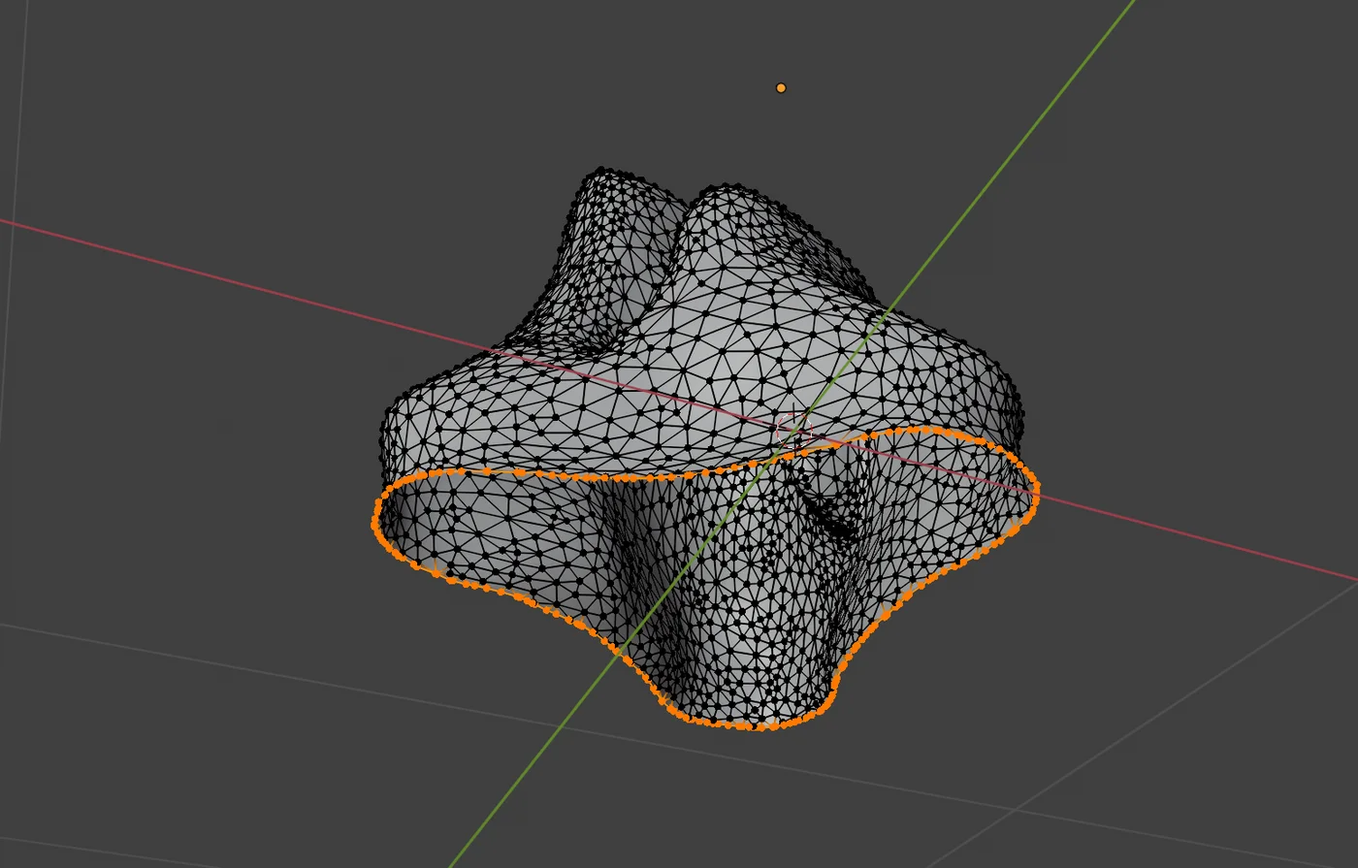
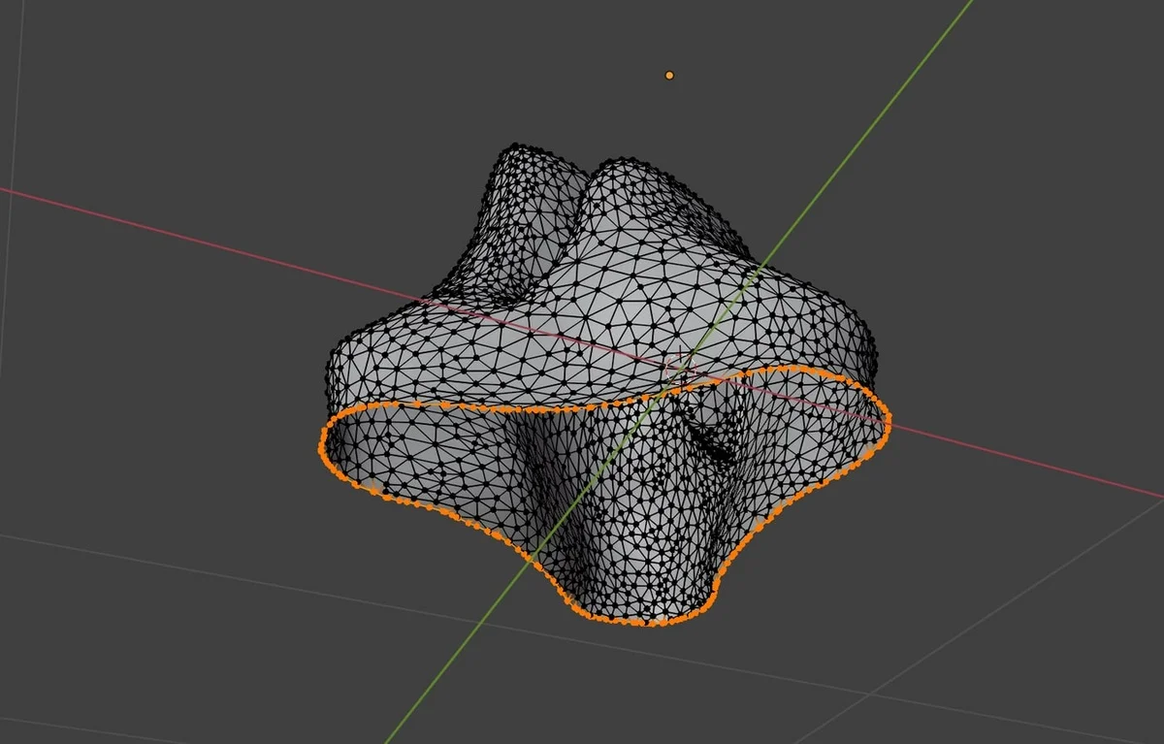
Process is four identical frames, and the third one is the finished piece
All on Jack's word, and it undoes a photo reshuffle he had not asked for.

ONE FRAME FOR ALL FOUR, AND IT IS THE BLENDER CAPTURE'S. "I want them all
to end up being the same ratio as the Blender photo of the product, of me
modeling it... I want them all to be that same ratio and size." So every
step is now ONE photograph at 1200x767, ratio 1.5645, and the 2x2 holds
four identical frames: measured 448 x 288.5 apiece at 1440 in all four
languages, and 351 x 226.5 at 390 where it is one column. Card heights now
vary only by how many lines the sentence takes, 353.6 to 402.2.

1200 IS THE FOAM'S CEILING, which is what picked the number. cs-foam.jpg
is 1200x1500 and its camera original is not on this machine - the old
wall's 05-foam-full is the SPRAY BOOTH, not the foam, so that name lies -
which makes 1200 the widest a landscape crop of it can be without
upscaling. The Blender capture came DOWN from 1400x895 to match: a 14%
downscale of a screenshot costs nothing, where upscaling the one
photograph that cannot be re-exported would have softened it. Pick the
common size from the weakest source, not the best one.

WHAT EACH FRAME IS. The profiles are the rotated source almost whole -
2000x1333 after the 90 degrees, cropped to 2000x1278, which drops 4% of
the height - where the old 1400x596 was a tight strip cut to make a
two-photograph card add up. The foam is a 1200x767 window of its own
export at top 500, keeping the hand and the offcut on the bench.
[…]

diff --git a/i18n.js b/i18n.js
@@ -116,14 +116,13 @@
       'proj.pot-clip.cs.design.hint': "Drag to rotate",
       'proj.pot-clip.cs.process.t': "Process",
       'proj.pot-clip.cs.process.1': "Sketches and paper profiles",
-      'proj.pot-clip.cs.process.1b': "I sketched forms around “How might we” questions, then cut paper profiles to scale and held them against a real pot.",
+      'proj.pot-clip.cs.process.1b': "I made a number of sketches and turned my strongest into full-scale paper profiles to observe its design.",
       'proj.pot-clip.cs.process.2': "Sculpting",
       'proj.pot-clip.cs.process.2b': "I carved the form by hand from high-density foam.",
       'proj.pot-clip.cs.process.3': "Finishing",
       'proj.pot-clip.cs.process.3b': "Built up with coats and spray-finished to read as metal. I built one clip of the pair, to test form and fit.",
       'proj.pot-clip.cs.process.4': "Digital model",
       'proj.pot-clip.cs.process.4b': "I scanned the finished piece and rebuilt it in Blender. That model powers the interactive 3D viewer on this page.",
-      'proj.pot-clip.cs.alt.render': "A render of the clip in gold on a pale wood surface, lit from above.",
       'proj.pot-clip.cs.testing.t': "Testing",
       'proj.pot-clip.cs.testing.b': "<ul><li><strong>Method.</strong> I tested the model on pots of different sizes to see where the clip holds and where it fails.</li><li><strong>Finding.</strong> The rim decided whether it works. On smaller pots with thin rims, the rest held securely, including through a full product shoot. On larger pots with thicker rims, it slipped.</li><li><strong>Implication.</strong> One fixed clip profile can’t serve every pot. That made rim fit the top priority for the next version.</li></ul>",
       'proj.pot-clip.cs.posters.t': "Posters",
@@ -133,10 +132,9 @@
       'proj.pot-clip.alt.thumb': "The rest in polished silver on a deep red ground, with a spoon, a fork and two spatulas drawn in line around it.",
       'proj.pot-clip.cs.alt.hero': "A poster headed “Il buon design vive nei dettagli”, with the silver clip hooked over a steel bowl rim holding a slim wooden rod, and the Alessi mark below.",
       'proj.pot-clip.cs.alt.store': "The Alessi store in Milan seen from across the street, its arched window full of small metal pieces on open wooden shelves.",
-      'proj.pot-clip.cs.alt.sketches': "A notebook spread headed “Movable pot-rim utensil rest”, with profile sketches, a pot in section and a “how might we” note.",
       'proj.pot-clip.cs.alt.profiles': "Three paper profile studies of the clip, cut out and laid on a green cutting mat with pencil dimensions.",
       'proj.pot-clip.cs.alt.foam': "The sculpted foam model held in one hand, with an offcut on the bench behind.",
-      'proj.pot-clip.cs.alt.finishing': "The clip part-way through finishing, grey with filler coats, held in a gloved hand.",
+      'proj.pot-clip.cs.alt.finished': "The finished clip standing on a spray board in the workshop, its silver surface catching the light.",
       'proj.pot-clip.cs.alt.painted': "The finished model hanging from a wire in the spray booth, its silver surface against a perforated white wall.",
       'proj.pot-clip.cs.alt.blender': "The scanned model open in Blender, shown as a dense triangle mesh with its outline selected.",
       'proj.pot-clip.cs.alt.rim': "The clip on a steel bowl rim holding a thin wooden rod above the bowl, seen from the side.",
@@ -377,14 +375,13 @@
       'proj.pot-clip.cs.design.hint': "Arrastra para girar",
       'proj.pot-clip.cs.process.t': "Proceso",
       'proj.pot-clip.cs.process.1': "Bocetos y perfiles de papel",
-      'proj.pot-clip.cs.process.1b': "Dibujé formas en torno a preguntas “cómo podríamos”, luego recorté perfiles de papel a escala y los sostuve contra una olla real.",
+      'proj.pot-clip.cs.process.1b': "Hice varios bocetos y convertí los más sólidos en perfiles de papel a escala real para observar su diseño.",
       'proj.pot-clip.cs.process.2': "Tallado",
       'proj.pot-clip.cs.process.2b': "Tallé la forma a mano en espuma de alta densidad.",
       'proj.pot-clip.cs.process.3': "Acabado",
       'proj.pot-clip.cs.process.3b': "Recubierto con capas y pintado con spray para leerse como metal. Construí uno de los dos soportes, para probar forma y ajuste.",
       'proj.pot-clip.cs.process.4': "Modelo digital",
       'proj.pot-clip.cs.process.4b': "Escaneé la pieza terminada y la reconstruí en Blender. Ese modelo alimenta el visor 3D interactivo de esta página.",
-      'proj.pot-clip.cs.alt.render': "Un render del soporte en dorado sobre una superficie de madera clara, iluminado desde arriba.",
       'proj.pot-clip.cs.testing.t': "Pruebas",
       'proj.pot-clip.cs.testing.b': "<ul><li><strong>Método.</strong> Probé el modelo en ollas de distintos tamaños para ver dónde sujeta el soporte y dónde falla.</li><li><strong>Hallazgo.</strong> El borde decidía si funcionaba. En ollas pequeñas de borde fino sujetó bien, incluso durante una sesión de producto completa. En ollas grandes de borde grueso se resbalaba.</li><li><strong>Implicación.</strong> Un solo perfil de pinza no puede servir para todas las ollas. Eso convirtió el ajuste al borde en la prioridad de la siguiente versión.</li></ul>",
       'proj.pot-clip.cs.posters.t': "Carteles",
@@ -394,10 +391,9 @@
       'proj.pot-clip.alt.thumb': "El soporte en plata pulida sobre fondo rojo oscuro, con una cuchara, un tenedor y dos espátulas dibujadas a línea alrededor.",
       'proj.pot-clip.cs.alt.hero': "Un cartel encabezado «Il buon design vive nei dettagli», con el soporte plateado enganchado al borde de un bol de acero sosteniendo una fina varilla de madera, y la marca Alessi debajo.",
       'proj.pot-clip.cs.alt.store': "La tienda de Alessi en Milán vista desde la acera de enfrente, con su escaparate en arco lleno de pequeñas piezas de metal en estantes de madera.",
-      'proj.pot-clip.cs.alt.sketches': "Una doble página de cuaderno titulada “Movable pot-rim utensil rest”, con bocetos de perfil, una olla en sección y una nota “cómo podríamos”.",
       'proj.pot-clip.cs.alt.profiles': "Tres estudios de perfil en papel del soporte, recortados sobre una base de corte verde con cotas a lápiz.",
       'proj.pot-clip.cs.alt.foam': "El modelo de espuma tallado sostenido en una mano, con un recorte en la mesa al fondo.",
-      'proj.pot-clip.cs.alt.finishing': "El soporte a medio acabar, gris por las capas de masilla, sostenido con una mano enguantada.",
+      'proj.pot-clip.cs.alt.finished': "El soporte terminado de pie sobre un panel de pintura en el taller, con su superficie plateada captando la luz.",
       'proj.pot-clip.cs.alt.painted': "El modelo terminado colgado de un alambre en la cabina de pintura, su superficie plateada sobre una pared blanca perforada.",
       'proj.pot-clip.cs.alt.blender': "El modelo escaneado abierto en Blender, mostrado como una malla densa de triángulos con el contorno seleccionado.",
       'proj.pot-clip.cs.alt.rim': "El soporte en el borde de un bol de acero sosteniendo una varilla fina de madera sobre el bol, visto de lado.",
@@ -636,14 +632,13 @@
       'proj.pot-clip.cs.design.hint': "ドラッグで回転",
       'proj.pot-clip.cs.process.t': "プロセス",
       'proj.pot-clip.cs.process.1': "スケッチと紙の断面",
-      'proj.pot-clip.cs.process.1b': "「どうすれば」という問いを軸に形をスケッチし、実寸で紙の断面を切り出して実際の鍋に当てた。",
+      'proj.pot-clip.cs.process.1b': "多くのスケッチを描き、最も手応えのあるものを実寸の紙の断面に起こして、そのデザインを確かめた。",
       'proj.pot-clip.cs.process.2': "削り出し",
       'proj.pot-clip.cs.process.2b': "高密度フォームから手作業で形を削り出した。",
       'proj.pot-clip.cs.process.3': "仕上げ",
       'proj.pot-clip.cs.process.3b': "塗りを重ね、金属に見えるようスプレーで仕上げた。形と嵌合を確かめるため、対になるクリップの片方を作った。",
       'proj.pot-clip.cs.process.4': "デジタルモデル",
       'proj.pot-clip.cs.process.4b': "完成した実物をスキャンし、Blenderで作り直した。そのモデルがこのページのインタラクティブな3Dビューアーを動かしている。",
-      'proj.pot-clip.cs.alt.render': "淡い木目の面に置いた金色のクリップのレンダリング。上から光が当たっている。",
       'proj.pot-clip.cs.testing.t': "テスト",
       'proj.pot-clip.cs.testing.b': "<ul><li><strong>方法。</strong> 大きさの異なる鍋で試し、どこで留まり、どこで外れるかを確かめた。</li><li><strong>わかったこと。</strong> 決め手はふちだった。ふちの薄い小さめの鍋では、製品撮影を通してもしっかり保持できた。ふちの厚い大きな鍋では滑った。</li><li><strong>意味すること。</strong> 形の決まったクリップひとつですべての鍋には対応できない。そのため次の版ではふちへの適合が最優先になった。</li></ul>",
       'proj.pot-clip.cs.posters.t': "ポスター",
@@ -653,10 +648,9 @@
       'proj.pot-clip.alt.thumb': "深い赤を背景にした、磨かれた銀色のクリップ。まわりにスプーン、フォーク、ヘラが線画で描かれている。",
       'proj.pot-clip.cs.alt.hero': "「Il buon design vive nei dettagli」と題したポスター。ステンレスボウルのふちに掛けた銀色のクリップが細い木の棒を支え、下にAlessiのマークが入る。",
       'proj.pot-clip.cs.alt.store': "通りの向かいから見たミラノのAlessi店舗。アーチ型の窓の奥、木の棚に小さな金属製品が並ぶ。",
-      'proj.pot-clip.cs.alt.sketches': "「Movable pot-rim utensil rest」と見出しのついたノートの見開き。断面のスケッチ、鍋の断面図、「どうすれば」のメモがある。",
       'proj.pot-clip.cs.alt.profiles': "クリップの断面を紙で切り出した3つの検討。緑のカッティングマットの上に、鉛筆の寸法とともに並ぶ。",
       'proj.pot-clip.cs.alt.foam': "削り出したフォームモデルを片手で持つ。奥の作業台には切り落としが置かれている。",
-      'proj.pot-clip.cs.alt.finishing': "仕上げ途中のクリップ。下地の層でグレーになっており、手袋をした手で持っている。",
+      'proj.pot-clip.cs.alt.finished': "工房の塗装板の上に立つ完成したクリップ。銀色の表面が光を受けている。",
       'proj.pot-clip.cs.alt.painted': "塗装ブースでワイヤーに吊るされた完成モデル。銀色の表面が、穴の開いた白い壁を背にしている。",
       'proj.pot-clip.cs.alt.blender': "Blenderで開いたスキャンモデル。細かい三角形のメッシュとして表示され、輪郭が選択されている。",
       'proj.pot-clip.cs.alt.rim': "ステンレスボウルのふちに掛けたクリップが、細い木の棒をボウルの上に支えている。側面から見たところ。",
@@ -895,14 +889,13 @@
       'proj.pot-clip.cs.design.hint': "Trascina per ruotare",
       'proj.pot-clip.cs.process.t': "Processo",
       'proj.pot-clip.cs.process.1': "Schizzi e profili di carta",
-      'proj.pot-clip.cs.process.1b': "Ho disegnato forme attorno a domande “come potremmo”, poi ho ritagliato profili di carta in scala e li ho appoggiati a una pentola vera.",
+      'proj.pot-clip.cs.process.1b': "Ho fatto diversi schizzi e ho trasformato i più solidi in profili di carta a grandezza reale per osservarne il design.",
       'proj.pot-clip.cs.process.2': "Scultura",
       'proj.pot-clip.cs.process.2b': "Ho scolpito la forma a mano nella schiuma ad alta densità.",
       'proj.pot-clip.cs.process.3': "Finitura",
       'proj.pot-clip.cs.process.3b': "Rifinito con più mani e verniciato a spruzzo per leggersi come metallo. Ho realizzato uno dei due supporti, per provare forma e calzata.",
       'proj.pot-clip.cs.process.4': "Modello digitale",
       'proj.pot-clip.cs.process.4b': "Ho scansionato il pezzo finito e l’ho ricostruito in Blender. Quel modello alimenta il visore 3D interattivo di questa pagina.",
-      'proj.pot-clip.cs.alt.render': "Un render del supporto in oro su una superficie di legno chiaro, illuminato dall’alto.",
       'proj.pot-clip.cs.testing.t': "Test",
       'proj.pot-clip.cs.testing.b': "<ul><li><strong>Metodo.</strong> Ho provato il modello su pentole di misure diverse, per vedere dove il supporto tiene e dove cede.</li><li><strong>Risultato.</strong> A decidere era il bordo. Su pentole più piccole con bordi sottili ha retto bene, anche per un intero shooting di prodotto. Su pentole grandi con bordi spessi scivolava.</li><li><strong>Implicazione.</strong> Un solo profilo di aggancio non può servire ogni pentola. Questo ha reso la calzata sul bordo la priorità della versione successiva.</li></ul>",
       'proj.pot-clip.cs.posters.t': "Manifesti",
@@ -912,10 +905,9 @@
       'proj.pot-clip.alt.thumb': "Il supporto in argento lucido su fondo rosso scuro, con un cucchiaio, una forchetta e due spatole disegnati a linea intorno.",
       'proj.pot-clip.cs.alt.hero': "Un manifesto con la riga «Il buon design vive nei dettagli», il supporto argentato agganciato al bordo di una ciotola d’acciaio che regge un’asta di legno sottile, e il marchio Alessi sotto.",
       'proj.pot-clip.cs.alt.store': "Il negozio Alessi a Milano visto dall’altro lato della strada, con la vetrina ad arco piena di piccoli oggetti di metallo su scaffali di legno.",
-      'proj.pot-clip.cs.alt.sketches': "Una doppia pagina di quaderno intitolata “Movable pot-rim utensil rest”, con schizzi di profilo, una pentola in sezione e una nota “come potremmo”.",
       'proj.pot-clip.cs.alt.profiles': "Tre studi di profilo in carta del supporto, ritagliati su un tappetino da taglio verde con quote a matita.",
       'proj.pot-clip.cs.alt.foam': "Il modello in schiuma scolpito tenuto in una mano, con uno scarto sul banco dietro.",
-      'proj.pot-clip.cs.alt.finishing': "Il supporto a metà finitura, grigio per le mani di stucco, tenuto con una mano guantata.",
+      'proj.pot-clip.cs.alt.finished': "Il supporto finito in piedi su un pannello da verniciatura in laboratorio, con la superficie argentata che prende la luce.",
       'proj.pot-clip.cs.alt.painted': "Il modello finito appeso a un filo nella cabina di verniciatura, la superficie argentata contro una parete bianca forata.",
       'proj.pot-clip.cs.alt.blender': "Il modello scansionato aperto in Blender, mostrato come una mesh fitta di triangoli con il contorno selezionato.",
       'proj.pot-clip.cs.alt.rim': "Il supporto sul bordo di una ciotola d’acciaio che tiene un’asta di legno sottile sopra la ciotola, visto di lato.",

diff --git a/script.js b/script.js
@@ -425,90 +425,77 @@ const projectData = {
            paper-profiles shot that is the outer two profiles - the same
            argument the figure rows already lost. */
         { id: 'process', title: 'proj.pot-clip.cs.process.t',
+          /* ONE FRAME FOR ALL FOUR, AND IT IS THE BLENDER CAPTURE'S.
+             Jack: "I want them to all end up being the same ratio as the
+             [...] Blender photo of the product, of me modeling it [...] I
+             want them all to be that same ratio and size." So every step
+             is ONE photograph at 1200x767, ratio 1.5645, and the 2x2 grid
+             has four identical frames in it.
+               1200 IS THE FOAM'S CEILING, which is what sets the number.
+             cs-foam.jpg is 1200x1500 and its own camera original is not on
+             this machine (the old wall's 05-foam-full is the spray booth,
+             not the foam), so 1200 is the widest a landscape crop of it can
+             be without upscaling. Blender came DOWN from 1400x895 to match:
+             a 14% downscale of a screenshot costs nothing, where upscaling
+             the foam 17% would have softened the one photograph that cannot
+             be re-exported. Every file is now literally the same size.
+               WHAT EACH CROP IS. The profiles are the rotated source almost
+             whole - 2000x1333 after the 90 degrees, cropped to 2000x1278,
+             which drops 4% of the height - where the old 1400x596 was a
+             tight strip of it, cut to make a two-photograph card add up.
+             The foam is a 1200x767 window of its export at top 500, which
+             keeps the hand and the offcut on the bench. cs-finished is
+             newnumber3.jpeg (3024x4032, shot 13 Oct) cropped 1900x1215 at
+             522,1429, centred on the clip so it reads at card size.
+               THE PENCIL DARKENING HAD TO BE REDONE for the new crop, and
+             the documented 195-248 stretch is NOT what the live file was
+             carrying. Measured inside the card mask, the approved export
+             sat at paper 232 with stroke-against-paper contrast p95 26.0;
+             195-248 gives paper 211 and p95 46.4, which is a visibly
+             greyer card. Fitted to the approved numbers instead: a 130-250
+             stretch plus a 1.4 sharpen, which lands paper 232 and p95 26.9.
+             The sharpen is MASKED to the cards - sharpening the cutting
+             mat's dot texture is pure file size, and confining it took the
+             webp from 220K to 152K, under the 162K the old file shipped. */
           steps: [
-            /* TWO PHOTOGRAPHS, CROPPED TO ADD UP TO THE ONE BESIDE THEM.
-               Jack: "crop the heights of the Card 1 photos so that they are
-               the same height as the photo next to it." Card 2 is a single
-               4:5 portrait, 551px of image at a 441px column; this pair owes
-               the same, so after a 12px gap and two 3px borders a side they
-               owe 533 between them. The sketch spread takes 345 and the
-               paper profiles 188, and those two numbers are the aspect
-               ratios below - 1400x1096 is 1.277:1 and 1400x596 is 2.349:1.
-               Re-cropped from the ORIGINALS rather than from the exports,
-               so nothing is resampled twice - and shipped at NEW PATHS,
-               which the first pass got wrong. See the cache note in
-               CLAUDE.md: a re-crop at a live path is not a shrug.
-                 The profiles lost height and nothing else: the three paper
-               pieces occupy the middle 48% of that frame and the rest is
-               cutting mat. The sketch spread was cropped in on every side -
-               "so it looks more zoomed in and we just see the paper" - to
-               just inside the notebook page, which drops the dark desk it
-               was lying on and keeps the title and both questions. */
             { label: 'proj.pot-clip.cs.process.1',
               text: 'proj.pot-clip.cs.process.1b', figures: [
-              { src: '/assets/projects/pot-clip/cs-paper-profiles.jpg?v=5edbb0ac', w: 1400, h: 596,
-                full: '/assets/projects/pot-clip/cs-paper-profiles.jpg?v=5edbb0ac',
+              { src: '/assets/projects/pot-clip/cs-paper-profiles.jpg?v=f86714ee', w: 1200, h: 767,
+                full: '/assets/projects/pot-clip/cs-paper-profiles.jpg?v=f86714ee',
                 altKey: 'proj.pot-clip.cs.alt.profiles' },
-              { src: '/assets/projects/pot-clip/cs-sketch-page.jpg?v=88107ffb', w: 1400, h: 1096,
-                full: '/assets/projects/pot-clip/cs-sketch-page.jpg?v=88107ffb',
-                altKey: 'proj.pot-clip.cs.alt.sketches' },
             ] },
             { label: 'proj.pot-clip.cs.process.2',
               text: 'proj.pot-clip.cs.process.2b', figures: [
-              { src: '/assets/projects/pot-clip/cs-foam.jpg?v=824ac2ae', w: 1200, h: 1500,
-                full: '/assets/projects/pot-clip/cs-foam.jpg?v=824ac2ae',
+              { src: '/assets/projects/pot-clip/cs-foam.jpg?v=763ddd51', w: 1200, h: 767,
+                full: '/assets/projects/pot-clip/cs-foam.jpg?v=763ddd51',
                 altKey: 'proj.pot-clip.cs.alt.foam' },
             ] },
-            /* THE FINISHING PHOTOGRAPH CAME BACK FOR THIS CARD. Jack's
-               rewrite split the old "Foam model, spray-finished" into
-               Sculpting and Finishing, so card 2 keeps the raw foam in the
-               hand and this one needed a picture of the coats going on.
-               Nothing on the page could stand in: cs-painted is the
-               finished piece and The design already shows it beside the
-               turntable, and cs-booth is the SAME FRAME at a wider crop,
-               so either would have put one picture on the page twice.
-                 So cs-finishing is the old masonry wall's 06-finishing -
-               the primed clip in a gloved hand, the only photograph of the
-               finishing itself - re-exported from its -full at 1000x1250,
-               jpeg q82 and webp q85 at 44.2 and 43.5 dB against a q98
-               reference. CENTRE-CROPPED 1333x2000 -> 1333x1666 so it is
-               4:5 like the foam shot beside it: the two physical stages
-               are then the same frame shape, which is what makes them read
-               as one pair, and what it costs is an unrelated architecture
-               model at the top of the frame. ?v=0 is the way into
-               asset-rev.js - stale by definition, so the hook fills it. */
+            /* THE FINISHED PIECE, on Jack's "I want this, the third one,
+               the third step, [to be] what you need to see the finished
+               project on." It is the clip standing on its spray board in
+               the workshop - the same 13 October session as the first
+               coats - so the card's own sentence, built up with coats and
+               spray-finished to read as metal, is what the photograph
+               shows. ?v=0 is the way into asset-rev.js: stale by
+               definition, so the hook fills it. */
             { label: 'proj.pot-clip.cs.process.3',
               text: 'proj.pot-clip.cs.process.3b', figures: [
-              { src: '/assets/projects/pot-clip/cs-finishing.jpg?v=0e96128d', w: 1000, h: 1250,
-                full: '/assets/projects/pot-clip/cs-finishing.jpg?v=0e96128d',
-                altKey: 'proj.pot-clip.cs.alt.finishing' },
+              { src: '/assets/projects/pot-clip/cs-finished.jpg?v=c51d409a', w: 1200, h: 767,
+                full: '/assets/projects/pot-clip/cs-finished.jpg?v=c51d409a',
+                altKey: 'proj.pot-clip.cs.alt.finished' },
             ] },
-            /* BOTH DIGITAL PICTURES SIT ON THIS CARD NOW. It used to be
-               "Renders" with the render alone and the Blender capture on a
-               card above it; Jack's card 4 is the model itself - scanned,
-               rebuilt, and driving the turntable - so the mesh is the
-               subject and the render is what that mesh produces. Two
-               landscapes stacked, the shape card 1 already carries, and it
-               is also what keeps this row level against the portrait
-               beside it.
-                 The render is CROPPED TO THE VIEWPORT. Its source is a
-               screenshot of the <model-viewer> editor and the right third
-               of it is a code snippet, a File Manager and a Download Scene
-               button - tooling, not work, and a thing this codebase
-               pointedly does not use. Centred on the render's own ink box
-               (446-1661 x 570-1318 in the 2948x1578 source), 1800x1200 at
-               source scale, which comes out 293/292 left-right and 226/226
-               top-bottom.
-                 14-object.jpg is still the turntable's poster and keeps
-               alt.14; this is a different render and gets its own alt. */
+            /* THE MESH IS LAST AND THE GOLD RENDER IS OUT, both on Jack's
+               word: "I want the render one where it looks kind of golden
+               [...] to take away, and I want the Blender model picture to
+               be the last one." cs-render.jpg and cs-sketch-page.jpg stay
+               in assets/ unreferenced, the same as cs-booth and
+               cs-hero-clip; their alt keys came out of i18n.js rather than
+               being left to read as dead. */
             { label: 'proj.pot-clip.cs.process.4',
               text: 'proj.pot-clip.cs.process.4b', figures: [
-              { src: '/assets/projects/pot-clip/cs-blender.jpg?v=876a7bde', w: 1400, h: 895,
-                full: '/assets/projects/pot-clip/cs-blender.jpg?v=876a7bde',
+              { src: '/assets/projects/pot-clip/cs-blender.jpg?v=819a2449', w: 1200, h: 767,
+                full: '/assets/projects/pot-clip/cs-blender.jpg?v=819a2449',
                 altKey: 'proj.pot-clip.cs.alt.blender' },
-              { src: '/assets/projects/pot-clip/cs-render.jpg?v=9d954ada', w: 1400, h: 933,
-                full: '/assets/projects/pot-clip/cs-render.jpg?v=9d954ada',
-                altKey: 'proj.pot-clip.cs.alt.render' },
             ] },
           ] },
 

diff --git a/CLAUDE.md b/CLAUDE.md
@@ -2094,15 +2094,49 @@ squashes the photograph to the target box instead of scaling it. The webp
 came from `sharp` installed in the scratchpad, per the rule below that it
 must never become a project dependency.
 
-**ONE PHOTOGRAPH PER CARD WAS THE RULE, AND THE TWO EXCEPTIONS PROVE
-WHY.** Step 2 first kept two — the foam and the spray booth — and
+**THEN THE WHOLE SET WAS LEVELLED TO ONE FRAME, AND THAT IS WHERE IT
+STANDS.** Jack, looking at the cards: *"I want them to all end up being the
+same ratio as the … Blender photo of the product, of me modeling it … I
+want them all to be that same ratio and size."* So every step is now **ONE
+photograph at 1200 × 767**, ratio 1.5645, and the 2×2 holds four identical
+frames — measured **448 × 288.5 apiece at 1440 in all four languages**, and
+351 × 226.5 at 390 where it is one column. Card heights then vary only by
+how many lines the sentence takes, 353.6 to 402.2.
+**1200 IS THE FOAM'S CEILING, and that is what picked the number.**
+`cs-foam.jpg` is 1200 × 1500 and its camera original is not on this machine
+— the old wall's `05-foam-full` is the SPRAY BOOTH, not the foam, so that
+name lies — which makes 1200 the widest a landscape crop of it can be
+without upscaling. The Blender capture came DOWN from 1400 × 895 to match:
+a 14% downscale of a screenshot costs nothing, where upscaling the one
+photograph that cannot be re-exported would have softened it. **Pick the
+common size from the weakest source, not from the best one.**
+**What each frame is now.** The profiles are the rotated source almost
+whole — 2000 × 1333 after the 90°, cropped to 2000 × 1278, which drops 4%
+of the height — where the old 1400 × 596 was a tight strip of it, cut to
+make a two-photograph card add up. The foam is a 1200 × 767 window of its
+own export at top 500, which keeps the hand and the offcut on the bench.
+`cs-finished` is Jack's own `newnumber3.jpeg` (3024 × 4032, shot 13
+October, the same session as the first coats), cropped 1900 × 1215 at
+522,1429 so the clip reads at card size.
+**The sketch spread and the gold render are OUT**, both on his word.
+`cs-sketch-page.jpg` and `cs-render.jpg` stay in `assets/` unreferenced,
+like `cs-booth` and `cs-hero-clip`, and `cs-finishing` — the finishing
+photograph that stood in card 3 for one commit — was deleted outright,
+since it had never been on the live site. Their alt keys came OUT of
+`i18n.js` rather than being left to read as dead.
+
+**ONE PHOTOGRAPH PER CARD IS THE RULE AND THERE ARE NO EXCEPTIONS LEFT,
+BUT IT TOOK THREE GOES TO GET THERE.** Step 2 first kept two — the foam and the spray booth — and
 two stacked PORTRAITS in a 215px column made that card **688px tall against
 175** for the other three, so the booth shot came out (still in `assets/`,
 alt text in the restore note). Card 1 carries two and it is fine, because
-they are two LANDSCAPES, and card 4 has carried two since the rewrite above
-for the same reason. **The shape of the photograph decides this, not the
-count.**
-**AND CARD 1'S PAIR IS CROPPED TO ADD UP TO THE ONE BESIDE IT.** Jack:
+they were two LANDSCAPES, which is what made that card legal where two
+portraits were not: **the shape of the photograph decided it, not the
+count.** Both pairs went when the set was levelled above, so nothing on
+this grid carries two any more.
+**AND CARD 1'S PAIR WAS CROPPED TO ADD UP TO THE ONE BESIDE IT** — the
+pair is gone, but the arithmetic is the worked example for matching a
+stack to its neighbour, so it stays. Jack:
 *"crop the heights of the Card 1 photos so that they are the same height as
 the photo next to it."* Card 2 is a single 4:5 portrait, 551px of image at a
 441px column, so with a 12px gap and two 3px borders a side the pair owes
@@ -2135,6 +2169,22 @@ out 377KB of jpeg against the 240KB it replaced. Softening before the
 stretch and sharpening gently after lands at **220KB / 162KB webp — lighter
 than the file it replaces** — and the drawing reads. Four combinations were
 rendered and weighed.
+**THE RECIPE ABOVE IS NOT WHAT THE LIVE FILE WAS CARRYING, and the refit
+is the number to use.** When the profiles were re-cropped on 2026-11-23
+the darkening had to be redone, and applying the documented 195–248
+stretch gave a visibly greyer card than the one already on the site.
+Measured inside the card mask, the approved export sat at **paper 232 with
+stroke-against-paper contrast p95 26.0**; 195–248 lands paper 211 and p95
+46.4. Fitted to the approved numbers instead: **a 130–250 stretch plus a
+1.4 sharpen**, which gives paper 232 and p95 26.9.
+**Measure the STROKES, not the percentiles.** A paper-median and a 1st
+percentile can both match while the pencil reads half as dark, because the
+dark tail is card edges and shadows rather than graphite. The metric that
+decides it is each pixel against its own local paper level (a sigma-4
+blur), inside a sigma-14 mask that keeps the cards and drops the mat.
+**And the sharpen is MASKED to the cards.** Sharpening the cutting mat's
+dot texture is pure file size: confining it took the webp from 220K to
+**152K**, under the 162K the old file shipped, at the same stroke contrast.
 **It is a reproduction adjustment, not a retouch.** Nothing is added or
 moved; the contrast that the camera lost on light graphite is put back. If
 an edit would ever change what the photograph SHOWS, it does not belong in
@@ -2908,11 +2958,12 @@ layout, so they travelled with the photographs and are still true.
 - **CLICK-TO-ZOOM IS ALL OF THEM.** It was on two tiles out of nine and
   looked arbitrary, because it was: `full` had been added only where the
   source happened to be large. The rule survived the redesign: every figure
-  in the case study carries `full`, and **13 of the 14 images in the panel
-  zoom** — the fourteenth is the turntable's poster, which is a fallback
-  rather than a photograph. (It went 14 → 13 when the dimensioned notebook
-  page came out of The design and back to 14 when the finishing photograph
-  joined Process; counted in the live panel each time, not inferred.) For the new exports `full` is the file's own
+  in the case study carries `full`, and **11 of the 12 images in the panel
+  zoom** — the twelfth is the turntable's poster, which is a fallback
+  rather than a photograph. (14 → 13 when the dimensioned notebook page
+  came out of The design, back to 14 with a finishing photograph, then to
+  12 when Process went to one photograph a card; counted in the live panel
+  each time, not inferred.) For the new exports `full` is the file's own
   path: they are 1000–1600px sources drawn 300–600px wide, so opening one at
   full size really does show more, and there is no second file to fetch.
 
